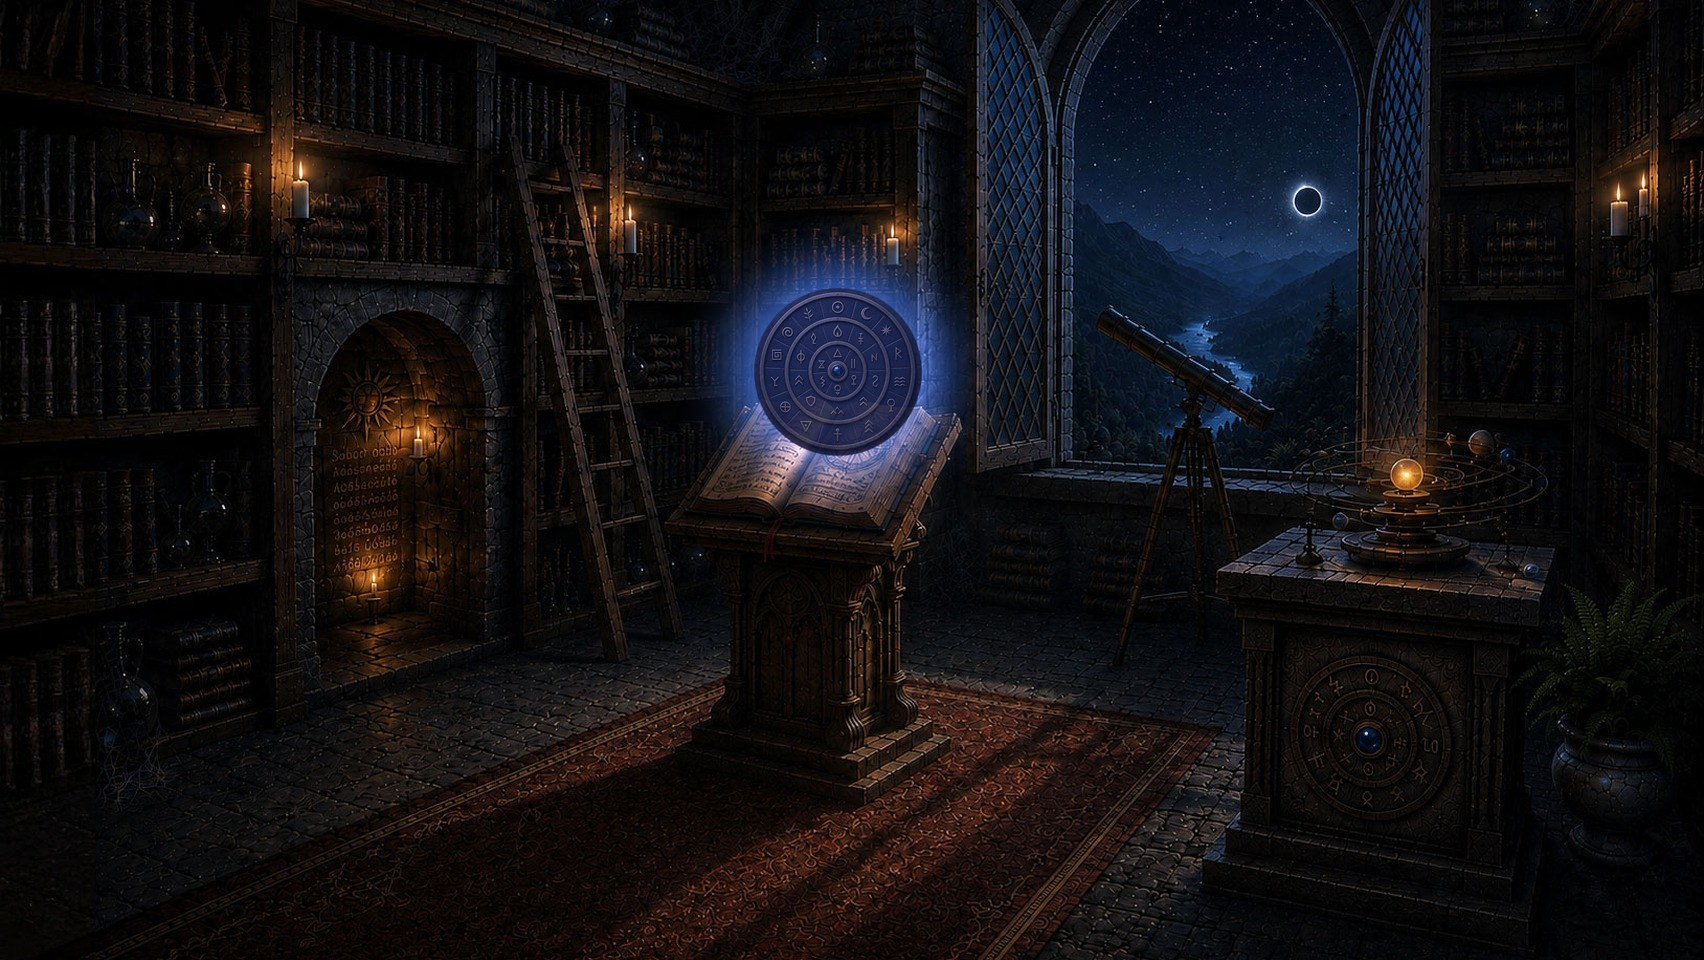
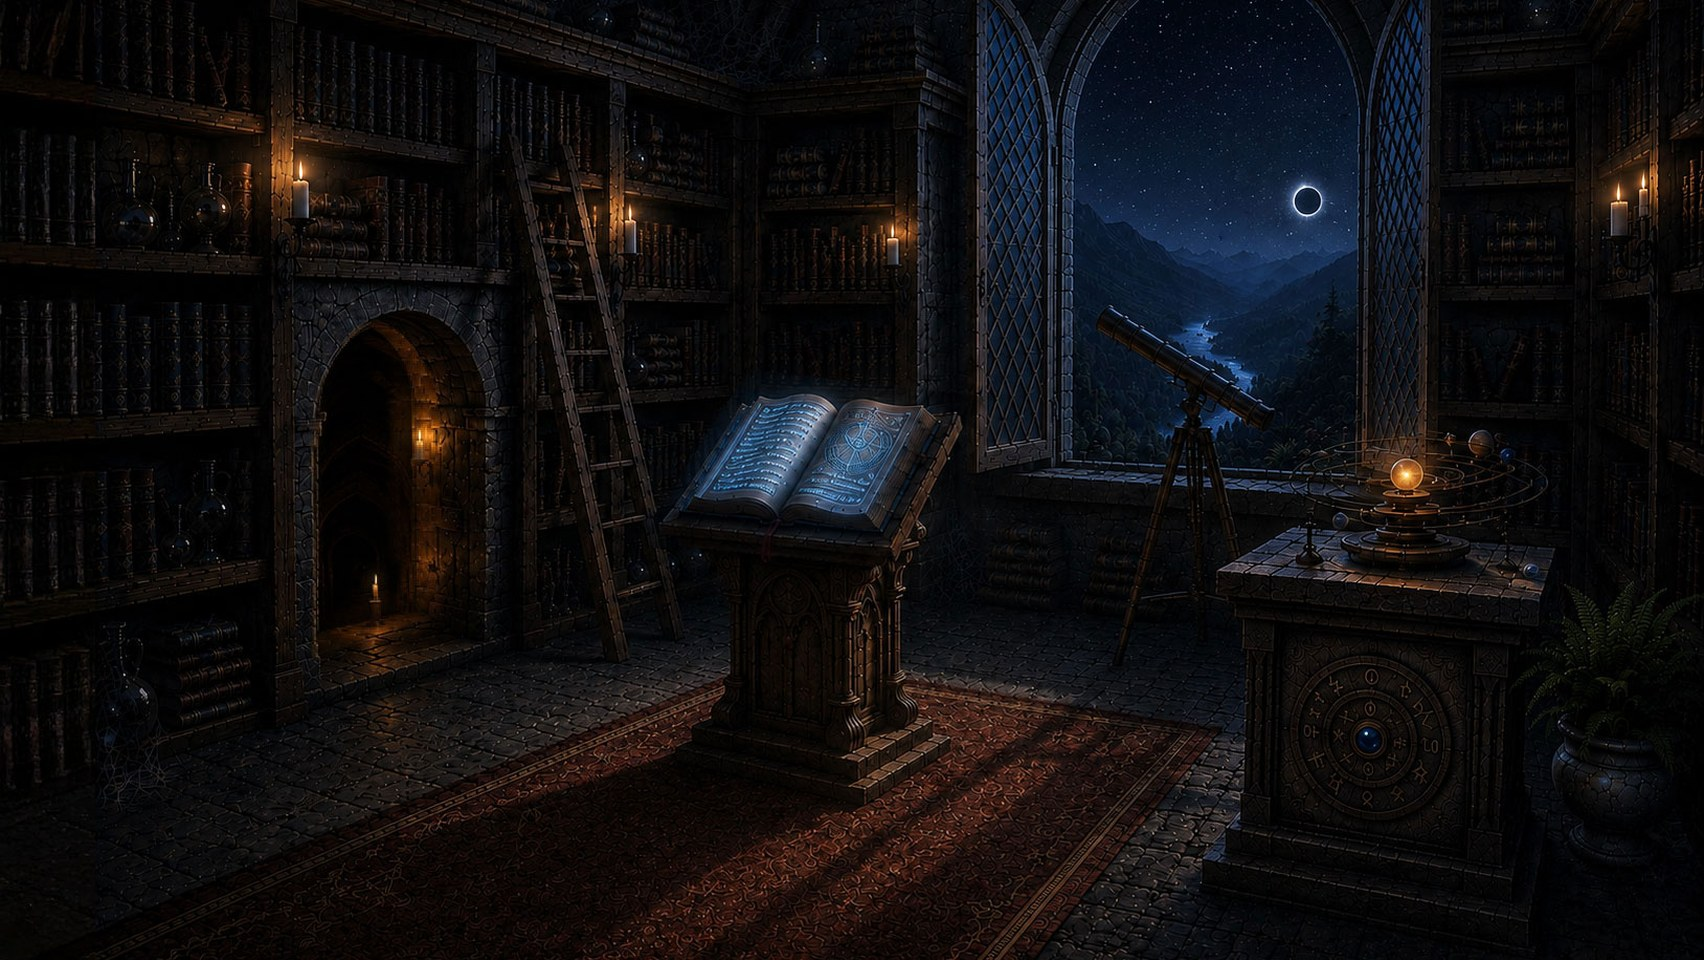
Deel 2: nieuwe nacht-bieb (gloeiend boek) + sparkles, nieuwe kerker (gevangenis-ravenholt)
Bibliotheek:
- bibliotheek-nacht-boek.jpg is nu de zonsverduistering-achtergrond: het boek op de
  lessenaar gloeit blauw in de nacht
- Nieuw bookSparkle-effect (engine): zachte pulserende blauwe gloed + 5 omhoog
  dwarrelende sparkles boven het boek, zodat je meteen ziet dat het licht geeft
  (dooft zodra het zegel is opgelost)

Kerker:
- gevangenis-ravenholt.jpg is de nieuwe kerker: wenteltrap links, tafel + tonnen in
  het midden, de cel met tralies rechts
- Finn start LINKS onderaan de trap; de wachter staat vóór de cel en kijkt naar
  RECHTS (gespiegeld); vader zit rechts achter de tralies
- Loopvlak/obstakels/hotspots op de nieuwe plattegrond; onzichtbaarheidsspreuk blijft
  vereist om langs de wachter te komen (geverifieerd)
- Cache deel2 v143

Changed region(s): [[0.4043, 0.25, 0.591, 0.5938], [0.1866, 0.375, 0.2799, 0.625]]

diff --git a/games/ravenholt-deel2/js/data.js b/games/ravenholt-deel2/js/data.js
@@ -14,7 +14,7 @@ const GAME = {
   title:      { nl: 'Fluisteringen van Ravenholt — Deel 2', en: 'Whispers of Ravenholt — Part 2' },
   titleLines: { nl: ['Fluisteringen', 'van Ravenholt', '· Deel 2 ·'], en: ['Whispers of', 'Ravenholt', '· Part 2 ·'] },
   startScene: 'courtyard',
-  assetVer: '142',
+  assetVer: '143',
 
   /* Finn — vaste figuur: roodharige jongen, blauwe kapmantel, leren tas, houten staf.
      idle = hero, lopen = 4-frame loopsheet (heroWalkSheet), zwaaien = heroWave.
@@ -801,7 +801,9 @@ const GAME = {
         { x: 160, y: 238, w: 56, h: 34 }                   // de tovenaar zelf — je loopt niet dwars door hem heen
       ],
       overlays: [],
-      fx: {},
+      fx: {
+        bookSparkle: { x: 278, y: 150, r: 24, doneFlag: 'altarSolved' }   // het boek geeft licht: zachte gloed + sparkles, tot het zegel is opgelost
+      },
       npcs: [
         { id: 'librarian', sprite: 'librarian', x: 188, y: 260, scale: 0.86, sway: 0.014, aweSwayMul: 3.0, aweSwayMs: 1250, flip: true, filter: 'brightness(0.64) saturate(0.86)', aweSprites: ['librarian-trip1', 'librarian-trip2'], aweFlag: 'wizardTripping' },   // de pixel-tovenaar — donker; onder hypnose duidelijk waggelen + halo en twinkels (engine)
         { id: 'libRaven', sprite: 'ravenPerch', x: 366, y: 155, scale: 1.02, flip: false, peck: true, peckAmt: 0.3 }                               // de raaf op de vensterbank — flink groter, 5px lager
@@ -972,34 +974,37 @@ const GAME = {
         nl: 'De wenteltrap komt uit in een klamme kerker diep onder het kasteel. Fakkels walmen aan de muren, kettingen rammelen zacht. Rechts, achter dikke ijzeren tralies, zit een magere gestalte gevangen — en er tussenin staat een reusachtige wachter, zijn hellebaard in de hand. Hij mag je niet zien.',
         en: 'The spiral stair opens into a clammy dungeon deep beneath the castle. Torches gutter on the walls, chains rattle softly. To the right, behind thick iron bars, a thin figure is imprisoned — and between you and it stands a huge guard, halberd in hand. He must not see you.'
       },
-      playerStart: { x: 150, y: 286 },
-      spawnFrom: { library: { x: 150, y: 286 } },
+      playerStart: { x: 100, y: 286 },
+      spawnFrom: { library: { x: 100, y: 286 } },
       depth: { far: 250, near: 314, sFar: 0.90, sNear: 1.22 },
       walkable: [
-        { x: 56, y: 252, w: 300, h: 56 }                 // de open kerkervloer (tot vlak voor de wachter)
+        { x: 36, y: 246, w: 444, h: 66 }                 // de natte kerkervloer, van de trap links tot vlak voor de cel
       ],
-      obstacles: [],
+      obstacles: [
+        { x: 182, y: 200, w: 94, h: 28 },                // de houten tafel met de fles
+        { x: 276, y: 196, w: 70, h: 28 }                 // de tonnen naast de tafel
+      ],
       overlays: [],
       fx: {},
       npcs: [
-        { id: 'guard', sprite: 'dungeonGuard', x: 322, y: 250, scale: 1.42, flip: false, sway: 0.015, filter: 'brightness(0.82) saturate(0.96)', hideFlag: 'guardPassed' },   // de reusachtige wachter; verdwijnt uit beeld als je onzichtbaar langs sluipt
-        { id: 'father', sprite: 'father', x: 474, y: 242, scale: 1.04, flip: false, filter: 'brightness(0.86)' }                                                              // Finn's vader, gevangen achter de tralies
+        { id: 'guard', sprite: 'dungeonGuard', x: 322, y: 266, scale: 1.38, flip: true, sway: 0.015, filter: 'brightness(0.82) saturate(0.96)', hideFlag: 'guardPassed' },   // de reusachtige wachter vóór de cel, kijkt naar RECHTS; verdwijnt als je onzichtbaar langs sluipt
+        { id: 'father', sprite: 'father', x: 430, y: 240, scale: 0.98, flip: false, filter: 'brightness(0.80)' }                                                              // Finn's vader, gevangen achter de tralies van de cel rechts
       ],
       worldItems: [],
       hotspots: [
         {
           id: 'toLibraryDungeon',
           name: { nl: 'Terug naar boven', en: 'Back Up' },
-          rect: { x: 6, y: 110, w: 96, h: 190 },
-          walkTo: { x: 96, y: 284 },
-          arrow: { x: 66, y: 150, dir: 'up' },
+          rect: { x: 40, y: 40, w: 110, h: 210 },
+          walkTo: { x: 105, y: 254 },
+          arrow: { x: 95, y: 120, dir: 'up' },
           exit: { to: 'library', travelText: { nl: 'Je klimt de wenteltrap weer op, terug de bibliotheek in.', en: 'You climb back up the spiral stair, into the library.' } }
         },
         {
           id: 'guard',
           name: { nl: 'De Wachter', en: 'The Guard' },
-          rect: { x: 280, y: 128, w: 96, h: 150 },
-          walkTo: { x: 268, y: 262 },
+          rect: { x: 284, y: 140, w: 88, h: 145 },
+          walkTo: { x: 250, y: 268 },
           look: (state) => state.flags.guardPassed
             ? { nl: 'De wachter tuurt met gefronste wenkbrauwen de kerker rond — maar jou ziet hij niet. Sluip snel naar de cel!', en: 'The guard peers around the dungeon with a frown — but he cannot see you. Slip to the cell, quick!' }
             : { nl: 'Een kolossale wachter met een hellebaard verspert de weg naar de cel. “Niemand komt bij de gevangene — niemand die ik zíe, tenminste.” Zolang hij je ziet, kom je er nooit langs... Kon je maar onzichtbaar worden. (Tik de onzichtbaarheidsspreuk aan in je tas.)', en: 'A colossal guard with a halberd blocks the way to the cell. “No one reaches the prisoner — no one I can SEE, at least.” While he can see you, you will never get past... If only you could turn invisible. (Tap the invisibility spell in your bag.)' },
@@ -1013,8 +1018,8 @@ const GAME = {
         {
           id: 'father',
           name: { nl: 'De Gevangene', en: 'The Prisoner' },
-          rect: { x: 418, y: 150, w: 118, h: 150 },
-          walkTo: { x: 344, y: 262 },
+          rect: { x: 376, y: 96, w: 140, h: 165 },
+          walkTo: { x: 350, y: 270 },
           look: (state) => state.flags.fatherFreed
             ? { nl: 'De celdeur staat open. Je vader houdt je hand stevig vast — jullie zijn weer samen.', en: 'The cell door stands open. Your father holds your hand tight — you are together again.' }
             : { nl: 'Onzichtbaar sluip je naar de tralies. De magere man kijkt op — vermoeide ogen, rood-bruin haar net als dat van jou. “...Finn?” fluistert hij. “Mijn jongen! Snel — het slot heeft vier tekens. Luister goed: éérst de ZON... dan de MAAN... dan de STER... en als laatste het teken van mijn oude staf: Ψ.”', en: 'Invisible, you creep to the bars. The thin man looks up — tired eyes, red-brown hair just like yours. “...Finn?” he whispers. “My boy! Quick — the lock has four signs. Listen well: FIRST the SUN... then the MOON... then the STAR... and last the sign of my old staff: Ψ.”' },

diff --git a/games/ravenholt-deel2/index.html b/games/ravenholt-deel2/index.html
@@ -26,7 +26,7 @@
   <link rel="preconnect" href="https://fonts.googleapis.com">
   <link rel="preconnect" href="https://fonts.gstatic.com" crossorigin>
   <link href="https://fonts.googleapis.com/css2?family=Crimson+Pro:ital,wght@0,400;0,600;1,400&family=Pixelify+Sans:wght@400;600&display=swap" rel="stylesheet">
-  <link rel="stylesheet" href="css/style.css?v=142">
+  <link rel="stylesheet" href="css/style.css?v=143">
   <script type="application/ld+json">
   {
     "@context": "https://schema.org",
@@ -125,7 +125,7 @@
   </div>
 
   <div id="title-screen" class="overlay title">
-    <img class="title-bg" src="assets/art/title.jpg?v=142" alt="Whispers of Ravenholt" onerror="this.remove()">
+    <img class="title-bg" src="assets/art/title.jpg?v=143" alt="Whispers of Ravenholt" onerror="this.remove()">
     <div class="title-content">
       <h1 id="title-h1" hidden><span>Whispers of</span><br><span>Ravenholt</span></h1>
       <p id="title-sub" class="subtitle" hidden>Een point-and-click avontuur</p>
@@ -146,7 +146,7 @@
 
   <div id="win-screen" class="overlay" hidden>
     <div class="overlay-card panel">
-      <img class="win-banner" src="assets/art/win-deel2.jpg?v=142" alt="" onerror="this.remove()">
+      <img class="win-banner" src="assets/art/win-deel2.jpg?v=143" alt="" onerror="this.remove()">
       <h1 id="win-h1">Deel 1 uitgespeeld!</h1>
       <p class="intro" id="winText"></p>
       <button id="replayBtn" class="gold-btn">Opnieuw spelen</button>
@@ -296,10 +296,10 @@
     </div>
   </div>
 
-  <script src="js/sprites.js?v=142"></script>
-  <script src="js/scenes.js?v=142"></script>
-  <script src="js/data.js?v=142"></script>
-  <script src="js/engine.js?v=142"></script>
+  <script src="js/sprites.js?v=143"></script>
+  <script src="js/scenes.js?v=143"></script>
+  <script src="js/data.js?v=143"></script>
+  <script src="js/engine.js?v=143"></script>
   <script>
     if ('serviceWorker' in navigator) {
       window.addEventListener('load', () => {

diff --git a/games/ravenholt-deel2/js/engine.js b/games/ravenholt-deel2/js/engine.js
@@ -1549,6 +1549,25 @@
       fctx.fillStyle = g;
       fctx.fillRect(e.x - (e.r || 18), e.y - (e.r || 18), (e.r || 18) * 2, (e.r || 18) * 2);
     }
+    /* Het gloeiende boek: zachte pulserende blauwe gloed + zwevende sparkles, zodat je
+       ziet dat het boek licht geeft. Dooft zodra doneFlag is gezet (bv. altarSolved). */
+    if (fx.bookSparkle && !(fx.bookSparkle.doneFlag && state.flags[fx.bookSparkle.doneFlag])) {
+      const b = fx.bookSparkle;
+      const pr = (b.r || 22) * (1 + 0.10 * Math.sin(now / 680));
+      const pa = 0.13 + 0.07 * Math.sin(now / 520);
+      const g = fctx.createRadialGradient(b.x, b.y, 2, b.x, b.y, pr);
+      g.addColorStop(0, `rgba(140,185,255,${pa.toFixed(3)})`);
+      g.addColorStop(1, 'rgba(140,185,255,0)');
+      fctx.fillStyle = g;
+      fctx.fillRect(Math.round(b.x - pr), Math.round(b.y - pr), Math.round(pr * 2), Math.round(pr * 2));
+      for (let i = 0; i < 5; i++) {                    // sparkles die traag omhoog dwarrelen
+        const sp = 2000 + i * 340;
+        const tx = b.x + Math.sin(now / sp + i * 2.1) * (10 + (i % 3) * 5);
+        const ty = b.y - 4 - ((now / (26 + i * 5)) + i * 13) % 26;
+        const a = 0.25 + 0.5 * (0.5 + 0.5 * Math.sin(now / 430 + i * 1.7));
+        twinkle(tx, ty, a, '185,215,255');
+      }
+    }
     /* Fontein klatert alléén als de molen weer draait (requiresFlag, bv. millFixed);
        daarvoor staat de bron droog. Meerdere straaltjes mogelijk (links + rechts). */
     if (fx.fountain && (!fx.fountain.requiresFlag || state.flags[fx.fountain.requiresFlag]) && !(fx.fountain.hideFlag && state.flags[fx.fountain.hideFlag])) {

diff --git a/games/ravenholt-deel2/sw.js b/games/ravenholt-deel2/sw.js
@@ -4,7 +4,7 @@
    offline beschikbaar wilt hebben (optioneel — niet-vermelde bestanden worden bij
    eerste gebruik alsnog gecachet). */
 
-const CACHE = 'ravenholt2-v142';
+const CACHE = 'ravenholt2-v143';
 
 const PRECACHE = [
   './',
